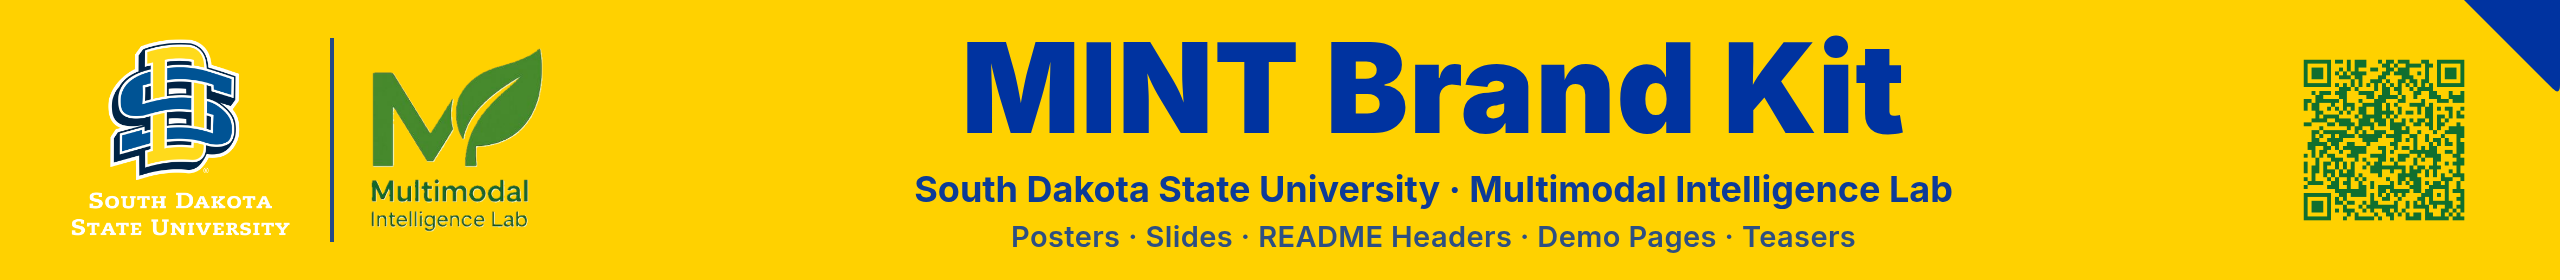
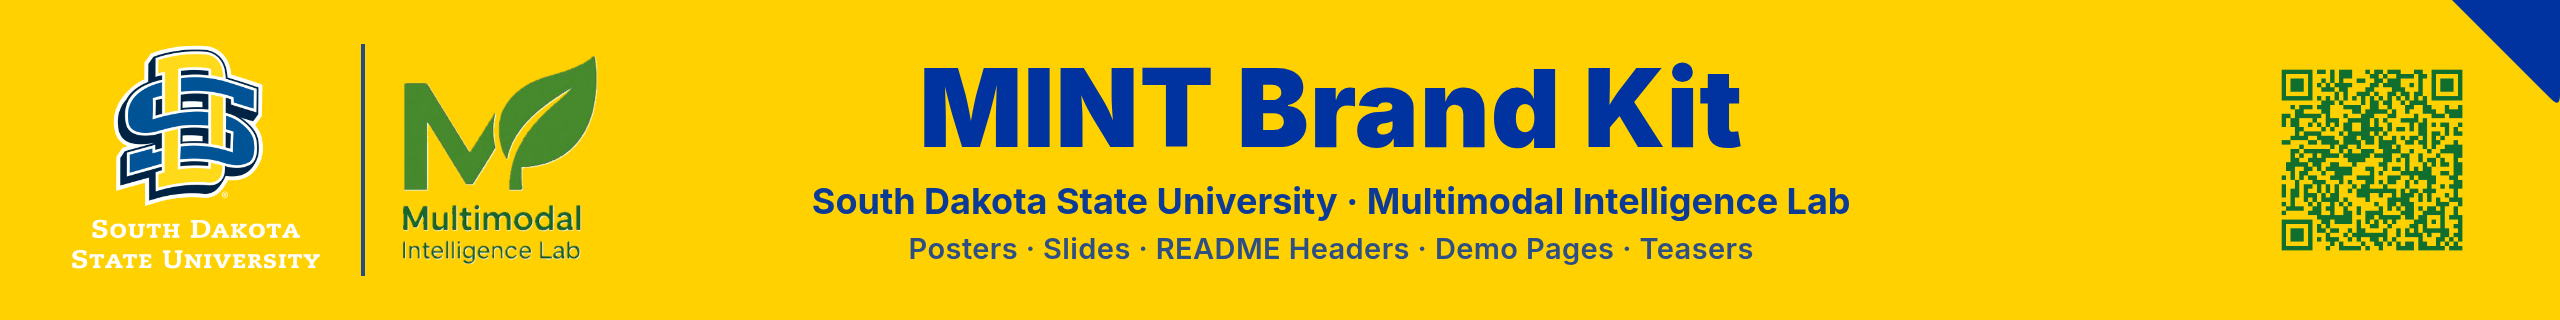
Restore band to 160; shrink title a notch (62 to 54) and shift it left
Previous commit wrongly shortened the band — the height was fine. Revert
to 1280x160 (lockup/QR/corner restored) and instead tune the title: 54px
and the text block nudged left toward the lockup.

diff --git a/readme-header/mint-brand-hero.html b/readme-header/mint-brand-hero.html
@@ -17,29 +17,29 @@
      16:1 strip so the title reads at GitHub's rendered width. We grow the height + title iteratively.
      Flat --sdsu-yellow ground (opaque + full-bleed, so one PNG reads on light AND dark GitHub themes; the
      band texture art is tuned for 16:1 and upscales poorly when taller). Never paste hex.
-     Render: node build.mjs mint-brand-hero.html 1280x140 */
+     Render: node build.mjs mint-brand-hero.html 1280x160 */
   .banner {
-    width: 1280px; height: 140px;            /* grow this (and the title) as we iterate */
+    width: 1280px; height: 160px;            /* band height — keep fixed; tune the title, not this */
     font-family: "Inter", -apple-system, sans-serif;
     position: relative; overflow: hidden;
     background: var(--sdsu-yellow); color: var(--sdsu-blue);
   }
-  .corner { position: absolute; top: 0; right: 0; width: 48px; height: 48px; z-index: 3; }   /* 0.34 × band-h, as the poster */
+  .corner { position: absolute; top: 0; right: 0; width: 54px; height: 54px; z-index: 3; }   /* 0.34 × band-h, as the poster */
   .lockup {
     position: absolute; left: 34px; top: 50%; transform: translateY(-50%);
     z-index: 2; display: flex; align-items: center; gap: 18px;
   }
-  .lockup .sdsu { height: 102px; width: auto; display: block; }   /* ~73% of band, as the deck/poster */
-  .lockup .mint { height: 93px; width: auto; display: block; }
+  .lockup .sdsu { height: 116px; width: auto; display: block; }   /* ~72% of band, as the deck/poster */
+  .lockup .mint { height: 106px; width: auto; display: block; }
   .lockup .sep  { width: 2px; align-self: stretch; background: var(--sdsu-blue); opacity: 0.85; }
   .center {
-    position: absolute; left: 24%; right: 12%; top: 50%; transform: translateY(-50%);
+    position: absolute; left: 20%; right: 16%; top: 50%; transform: translateY(-50%);
     text-align: center; z-index: 2;
   }
-  .center .title   { font-size: 62px; font-weight: 900; line-height: 1.02; letter-spacing: 0.4px; margin: 0; }
+  .center .title   { font-size: 54px; font-weight: 900; line-height: 1.02; letter-spacing: 0.4px; margin: 0; }
   .center .affil   { font-size: 18px; font-weight: 700; margin: 8px 0 0; opacity: 0.95; }
   .center .artifacts { font-size: 14.5px; font-weight: 600; margin: 4px 0 0; opacity: 0.82; letter-spacing: 0.2px; white-space: nowrap; }
-  .qr { position: absolute; right: 40px; top: 50%; transform: translateY(-50%); height: 96px; width: auto; z-index: 2; }
+  .qr { position: absolute; right: 40px; top: 50%; transform: translateY(-50%); height: 108px; width: auto; z-index: 2; }
 </style>
 </head>
 <body>
